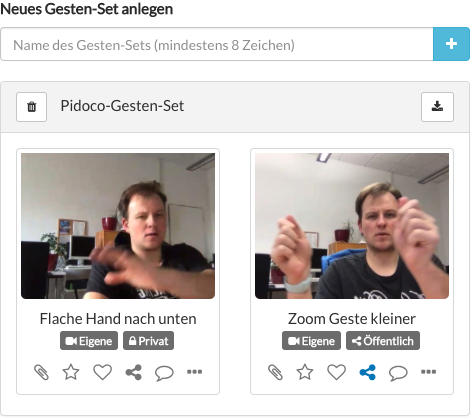
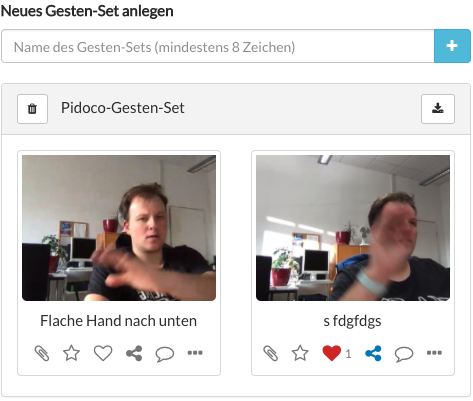
- working on introduction for study page

diff --git a/js/study.js b/js/study.js
@@ -367,7 +367,7 @@ function renderStudyParticipants(data, hash) {
                     if (result.phases[j].format === LETTER_OF_ACCEPTANCE) {
                         start = parseInt(result.phases[j].startTime);
                     } else if (result.phases[j].format === THANKS) {
-                        end = parseInt(result.phases[j-1].endTime);
+                        end = parseInt(result.phases[j - 1].endTime);
                     }
                 }
             }
@@ -377,8 +377,7 @@ function renderStudyParticipants(data, hash) {
                 $(item).find('#execution-duration').removeClass('hidden');
                 $(item).find('#execution-duration .label-text').text(getTimeString(duration, true));
             }
-        }
-        else {
+        } else {
             $(item).find('.panel').addClass('panel-danger');
             $(item).find('#execution-fault').removeClass('hidden');
             $(item).find('#execution-fault .label-text').text(translation.studyFault);
@@ -771,7 +770,9 @@ function updateMatchingView() {
         var rightGesture = getGestureById(gesturesRight[gesturesRightIndex].mainGestureId, ELICITED_GESTURES);
 
         var leftItem = getGestureCatalogListThumbnail(leftGesture, 'gestures-catalog-thumbnail', 'col-xs-12', ELICITED_GESTURES);
+        $(leftItem).removeClass('deleteable');
         var rightItem = getGestureCatalogListThumbnail(rightGesture, 'gestures-catalog-thumbnail', 'col-xs-12', ELICITED_GESTURES);
+        $(rightItem).removeClass('deleteable');
         $('#gesture-left').empty().append(leftItem);
         $('#gesture-right').empty().append(rightItem);
         renderClassifiedGestures($('#classified-gestures'));
@@ -1366,17 +1367,15 @@ function renderPotentialGesturesParameters(target, assignment, mainGesture) {
         var triggerId = assignment.triggerId;
         var amountRange = getAmountRange(triggerId);
         $(target).find('#parameters-amount #justification').text(translation.Minimal + ': ' + amountRange.min + ', ' + translation.maximal + ': ' + amountRange.max + ', ' + assignment.gestures.length + ' ' + (assignment.gestures.length === 1 ? translation.classifiedGesture : translation.classifiedGestures));
-
         if (amountRange.max > amountRange.min) {
             if (assignment.gestures.length === amountRange.max) {
                 target.find('#parameters-amount #well').removeClass('hidden');
             } else if (assignment.gestures.length === amountRange.min) {
                 target.find('#parameters-amount #less-well').removeClass('hidden');
-            } else {
-                target.find('#parameters-amount #even').removeClass('hidden');
             }
         } else {
             // can't found best gesture for these trigger, because every gesture are demonstrated the same amount
+            target.find('#parameters-amount #even').removeClass('hidden');
         }
 
         // agreement measures
@@ -1394,7 +1393,7 @@ function renderPotentialGesturesParameters(target, assignment, mainGesture) {
         // guessability / accordance
         var accordance = parseFloat(getAccordance(triggerId).toFixed(2));
         $(target).find('#parameters-guessability').removeClass('hidden');
-        $(target).find('#accordance .text').text(accordance);
+        $(target).find('#accordance .text').text(accordance === 1 ? '1.00' : accordance);
 
         if (accordance <= 0) {
             $(target).find('#parameters-guessability .lowAgreement').removeClass('hidden');
@@ -2469,7 +2468,7 @@ function renderPotentialTriggerParameters(target, assignment, mainTrigger) {
         // guessability / accordance
         var accordance = getTriggerAccordance(gestureId).toFixed(2);
         $(target).find('#parameters-guessability').removeClass('hidden');
-        $(target).find('#accordance .text').text(accordance);
+        $(target).find('#accordance .text').text(accordance === 1 ? '1.00' : accordance);
 
         if (accordance <= 0) {
             $(target).find('#parameters-guessability .lowAgreement').removeClass('hidden');

diff --git a/externals/template-gesture.php b/externals/template-gesture.php
@@ -28,8 +28,8 @@ include '../includes/language.php';
             </div>
             <div class="caption text-center">
                 <p class="gesture-name ellipsis"></p>
-                <span class="label label-default" id="gesture-source"><i class="fa fa-globe hidden" id="tester"></i><i class="fa fa-video-camera hidden" id="own"></i><i class="fa fa-globe hidden" id="evaluator"></i> <span class="label-text"></span></span>
-                <span class="label label-default" id="gesture-scope"><i class="fa fa-lock hidden" id="private"></i><i class="fa fa-share-alt hidden" id="public"></i> <span class="label-text"></span></span>
+<!--                <span class="label label-default" id="gesture-source"><i class="fa fa-globe hidden" id="tester"></i><i class="fa fa-video-camera hidden" id="own"></i><i class="fa fa-globe hidden" id="evaluator"></i> <span class="label-text"></span></span>
+                <span class="label label-default" id="gesture-scope"><i class="fa fa-lock hidden" id="private"></i><i class="fa fa-share-alt hidden" id="public"></i> <span class="label-text"></span></span>-->
             </div>
 
             <div class="thumbnail-footer text-center">
@@ -57,8 +57,8 @@ include '../includes/language.php';
             </div>
             <div class="caption text-center">
                 <p class="gesture-name ellipsis"></p>
-                <span class="label label-default" id="gesture-source"><i class="fa fa-globe hidden" id="tester"></i><i class="fa fa-video-camera hidden" id="own"></i><i class="fa fa-globe hidden" id="evaluator"></i> <span class="label-text"></span></span>
-                <span class="label label-default" id="gesture-scope"><i class="fa fa-lock hidden" id="private"></i><i class="fa fa-share-alt hidden" id="public"></i> <span class="label-text"></span></span>
+<!--                <span class="label label-default" id="gesture-source"><i class="fa fa-globe hidden" id="tester"></i><i class="fa fa-video-camera hidden" id="own"></i><i class="fa fa-globe hidden" id="evaluator"></i> <span class="label-text"></span></span>
+                <span class="label label-default" id="gesture-scope"><i class="fa fa-lock hidden" id="private"></i><i class="fa fa-share-alt hidden" id="public"></i> <span class="label-text"></span></span>-->
             </div>
 
             <div class="thumbnail-footer text-center">
@@ -87,8 +87,8 @@ include '../includes/language.php';
             </div>
             <div class="caption text-center">
                 <p class="gesture-name ellipsis"></p>
-                <span class="label label-default" id="gesture-source"><i class="fa fa-globe hidden" id="tester"></i><i class="fa fa-video-camera hidden" id="own"></i><i class="fa fa-globe hidden" id="evaluator"></i> <span class="label-text"></span></span>
-                <span class="label label-default" id="gesture-scope"><i class="fa fa-lock hidden" id="private"></i><i class="fa fa-share-alt hidden" id="public"></i> <span class="label-text"></span></span>
+<!--                <span class="label label-default" id="gesture-source"><i class="fa fa-globe hidden" id="tester"></i><i class="fa fa-video-camera hidden" id="own"></i><i class="fa fa-globe hidden" id="evaluator"></i> <span class="label-text"></span></span>
+                <span class="label label-default" id="gesture-scope"><i class="fa fa-lock hidden" id="private"></i><i class="fa fa-share-alt hidden" id="public"></i> <span class="label-text"></span></span>-->
             </div>
 
             <div class="thumbnail-footer text-center">
@@ -117,8 +117,8 @@ include '../includes/language.php';
             </div>
             <div class="caption text-center" style="padding-bottom: 10px">
                 <p class="gesture-name ellipsis"></p>
-                <span class="label label-default" id="gesture-source"><i class="fa fa-globe hidden" id="tester"></i><i class="fa fa-video-camera hidden" id="own"></i><i class="fa fa-globe hidden" id="evaluator"></i> <span class="label-text"></span></span>
-                <span class="label label-default" id="gesture-scope"><i class="fa fa-lock hidden" id="private"></i><i class="fa fa-share-alt hidden" id="public"></i> <span class="label-text"></span></span>
+<!--                <span class="label label-default" id="gesture-source"><i class="fa fa-globe hidden" id="tester"></i><i class="fa fa-video-camera hidden" id="own"></i><i class="fa fa-globe hidden" id="evaluator"></i> <span class="label-text"></span></span>
+                <span class="label label-default" id="gesture-scope"><i class="fa fa-lock hidden" id="private"></i><i class="fa fa-share-alt hidden" id="public"></i> <span class="label-text"></span></span>-->
             </div>
         </div>
     </div>
@@ -137,8 +137,8 @@ include '../includes/language.php';
                 </div>
             </div>
             <div class="caption text-center" style="padding-bottom: 10px">
-                <span class="label label-default" id="gesture-source"><i class="fa fa-globe hidden" id="tester"></i><i class="fa fa-video-camera hidden" id="own"></i><i class="fa fa-globe hidden" id="evaluator"></i> <span class="label-text hidden-xs"></span></span>
-                <span class="label label-default" id="gesture-scope"><i class="fa fa-lock hidden" id="private"></i><i class="fa fa-share-alt hidden" id="public"></i> <span class="label-text hidden-xs"></span></span>
+<!--                <span class="label label-default" id="gesture-source"><i class="fa fa-globe hidden" id="tester"></i><i class="fa fa-video-camera hidden" id="own"></i><i class="fa fa-globe hidden" id="evaluator"></i> <span class="label-text hidden-xs"></span></span>
+                <span class="label label-default" id="gesture-scope"><i class="fa fa-lock hidden" id="private"></i><i class="fa fa-share-alt hidden" id="public"></i> <span class="label-text hidden-xs"></span></span>-->
             </div>
         </div>
     </div>
@@ -187,8 +187,8 @@ include '../includes/language.php';
             </div>
             <div class="caption text-center">
                 <p class="gesture-name ellipsis"></p>
-                <span class="label label-default" id="gesture-source"><i class="fa fa-globe hidden" id="tester"></i><i class="fa fa-video-camera hidden" id="own"></i><i class="fa fa-globe hidden" id="evaluator"></i> <span class="label-text hidden-xs"></span></span>
-                <span class="label label-default" id="gesture-scope"><i class="fa fa-lock hidden" id="private"></i><i class="fa fa-share-alt hidden" id="public"></i> <span class="label-text hidden-xs"></span></span>
+                <!--<span class="label label-default" id="gesture-source"><i class="fa fa-globe hidden" id="tester"></i><i class="fa fa-video-camera hidden" id="own"></i><i class="fa fa-globe hidden" id="evaluator"></i> <span class="label-text hidden-xs"></span></span>-->
+                <!--<span class="label label-default" id="gesture-scope"><i class="fa fa-lock hidden" id="private"></i><i class="fa fa-share-alt hidden" id="public"></i> <span class="label-text hidden-xs"></span></span>-->
             </div>
             <div class="thumbnail-footer text-center">
                 <div class="btn-tag-as-favorite-gesture" data-toggle="popover"  data-trigger="hover" data-placement="auto" data-content="<?php echo $lang->addToStudyGestureSet ?>"><i class="fa fa-plus-square"></i></span></div>
@@ -243,8 +243,8 @@ include '../includes/language.php';
             </div>
             <div class="caption text-center">
                 <p class="gesture-name ellipsis"></p>
-                <span class="label label-default" id="gesture-source"><i class="fa fa-globe hidden" id="tester"></i><i class="fa fa-video-camera hidden" id="own"></i><i class="fa fa-globe hidden" id="evaluator"></i> <span class="label-text"></span></span>
-                <span class="label label-default" id="gesture-scope"><i class="fa fa-lock hidden" id="private"></i><i class="fa fa-share-alt hidden" id="public"></i> <span class="label-text"></span></span>
+                <!--<span class="label label-default" id="gesture-source"><i class="fa fa-globe hidden" id="tester"></i><i class="fa fa-video-camera hidden" id="own"></i><i class="fa fa-globe hidden" id="evaluator"></i> <span class="label-text"></span></span>-->
+                <!--<span class="label label-default" id="gesture-scope"><i class="fa fa-lock hidden" id="private"></i><i class="fa fa-share-alt hidden" id="public"></i> <span class="label-text"></span></span>-->
             </div>
 
             <div class="thumbnail-footer text-center">

diff --git a/externals/template-study.php b/externals/template-study.php
@@ -1065,16 +1065,16 @@ include '../includes/language.php';
             <span class="text" id="justification"></span>
             <br/>
             <span class="hidden success" id="well"><i class="fa fa-thumbs-up" aria-hidden="true"></i> <span><?php echo $lang->suitable ?></span></span>
-            <span class="hidden warning" id="even"><i class="fa fa-caret-right" aria-hidden="true"></i> <span><?php echo $lang->neitherNor ?></span></span>
+            <span class="hidden warning" id="even"><i class="fa fa-exclamation-triangle" aria-hidden="true"></i> <span><?php echo $lang->notEnoughData ?></span></span>
             <span class="hidden danger" id="less-well"><i class="fa fa-thumbs-down" aria-hidden="true"></i> <span><?php echo $lang->notSuitable ?></span></span>
         </div>
         <div id="parameters-agreement-measures" style="margin-top: 20px">
             <div><h4 style="margin: 0"><i class="fa fa-percent" aria-hidden="true"></i> <?php echo $lang->measureOfGuess ?></h4></div>
-            <div id="agreement"><span id="label"><?php echo $lang->estimability ?>:</span> <span class="text"></span></div>
+            <div id="agreement"><span id="label"><span class="text"></span></div>
         </div>
         <div id="parameters-guessability" class="hidden" style="margin-top: 20px">
             <div><h4 style="margin: 0"><i class="fa fa-users" aria-hidden="true"></i> <?php echo $lang->measureOfApproval ?></h4></div>
-            <div id="accordance"><span id="label"><?php echo $lang->approval ?>:</span> <span class="text"></span></div>
+            <span id="accordance" style="margin-right: 4px"><span class="text"></span>:</span>
             <span class="hidden success veryHighAgreement"><i class="fa fa-thumbs-up" aria-hidden="true"></i> <span><?php echo $lang->veryHighAgreement ?></span></span>
             <span class="hidden success highAgreement"><i class="fa fa-thumbs-up" aria-hidden="true"></i> <span><?php echo $lang->highAgreement ?></span></span>
             <span class="hidden warning mediumAgreement"><i class="fa fa-caret-right" aria-hidden="true"></i> <span><?php echo $lang->mediumAgreement ?></span></span>
@@ -1122,7 +1122,7 @@ include '../includes/language.php';
         <span class="text" id="justification"></span>
         <br/>
         <span class="hidden success" id="well"><i class="fa fa-thumbs-up" aria-hidden="true"></i> <span><?php echo $lang->suitable ?></span></span>
-        <span class="hidden warning" id="even"><i class="fa fa-caret-right" aria-hidden="true"></i> <span><?php echo $lang->neitherNor ?></span></span>
+        <span class="hidden warning" id="even"><i class="fa fa-exclamation-triangle" aria-hidden="true"></i> <span><?php echo $lang->notEnoughData ?></span></span>
         <span class="hidden danger" id="less-well"><i class="fa fa-thumbs-down" aria-hidden="true"></i> <span><?php echo $lang->notSuitable ?></span></span>
     </div>
 
@@ -1210,16 +1210,16 @@ include '../includes/language.php';
             <span class="text" id="justification"></span>
             <br/>
             <span class="hidden success" id="well"><i class="fa fa-thumbs-up" aria-hidden="true"></i> <span><?php echo $lang->suitable ?></span></span>
-            <span class="hidden warning" id="even"><i class="fa fa-caret-right" aria-hidden="true"></i> <span><?php echo $lang->neitherNor ?></span></span>
+            <span class="hidden warning" id="even"><i class="fa fa-exclamation-triangle" aria-hidden="true"></i> <span><?php echo $lang->notEnoughData ?></span></span>
             <span class="hidden danger" id="less-well"><i class="fa fa-thumbs-down" aria-hidden="true"></i> <span><?php echo $lang->notSuitable ?></span></span>
         </div>
         <div id="parameters-agreement-measures" style="margin-top: 20px">
             <div><h4 style="margin: 0"><i class="fa fa-percent" aria-hidden="true"></i> <?php echo $lang->measureOfGuess ?></h4></div>
-            <div id="agreement"><span id="label"><?php echo $lang->estimability ?>:</span> <span class="text"></span></div>
+            <div id="agreement"><span id="label"><span class="text"></span></div>
         </div>
         <div id="parameters-guessability" class="hidden" style="margin-top: 20px">
             <div><h4 style="margin: 0"><i class="fa fa-users" aria-hidden="true"></i> <?php echo $lang->measureOfApproval ?></h4></div>
-            <div id="accordance"><span id="label"><?php echo $lang->approval ?>:</span> <span class="text"></span></div>
+            <span id="accordance" style="margin-right: 4px"><span class="text"></span>:</span>
             <span class="hidden success veryHighAgreement"><i class="fa fa-thumbs-up" aria-hidden="true"></i> <span><?php echo $lang->veryHighAgreement ?></span></span>
             <span class="hidden success highAgreement"><i class="fa fa-thumbs-up" aria-hidden="true"></i> <span><?php echo $lang->highAgreement ?></span></span>
             <span class="hidden warning mediumAgreement"><i class="fa fa-caret-right" aria-hidden="true"></i> <span><?php echo $lang->mediumAgreement ?></span></span>
@@ -1262,7 +1262,7 @@ include '../includes/language.php';
         <span class="text" id="justification"></span>
         <br/>
         <span class="hidden success" id="well"><i class="fa fa-thumbs-up" aria-hidden="true"></i> <span><?php echo $lang->suitable ?></span></span>
-        <span class="hidden warning" id="even"><i class="fa fa-caret-right" aria-hidden="true"></i> <span><?php echo $lang->neitherNor ?></span></span>
+        <span class="hidden warning" id="even"><i class="fa fa-exclamation-triangle" aria-hidden="true"></i> <span><?php echo $lang->notEnoughData ?></span></span>
         <span class="hidden danger" id="less-well"><i class="fa fa-thumbs-down" aria-hidden="true"></i> <span><?php echo $lang->notSuitable ?></span></span>
     </div>
 
